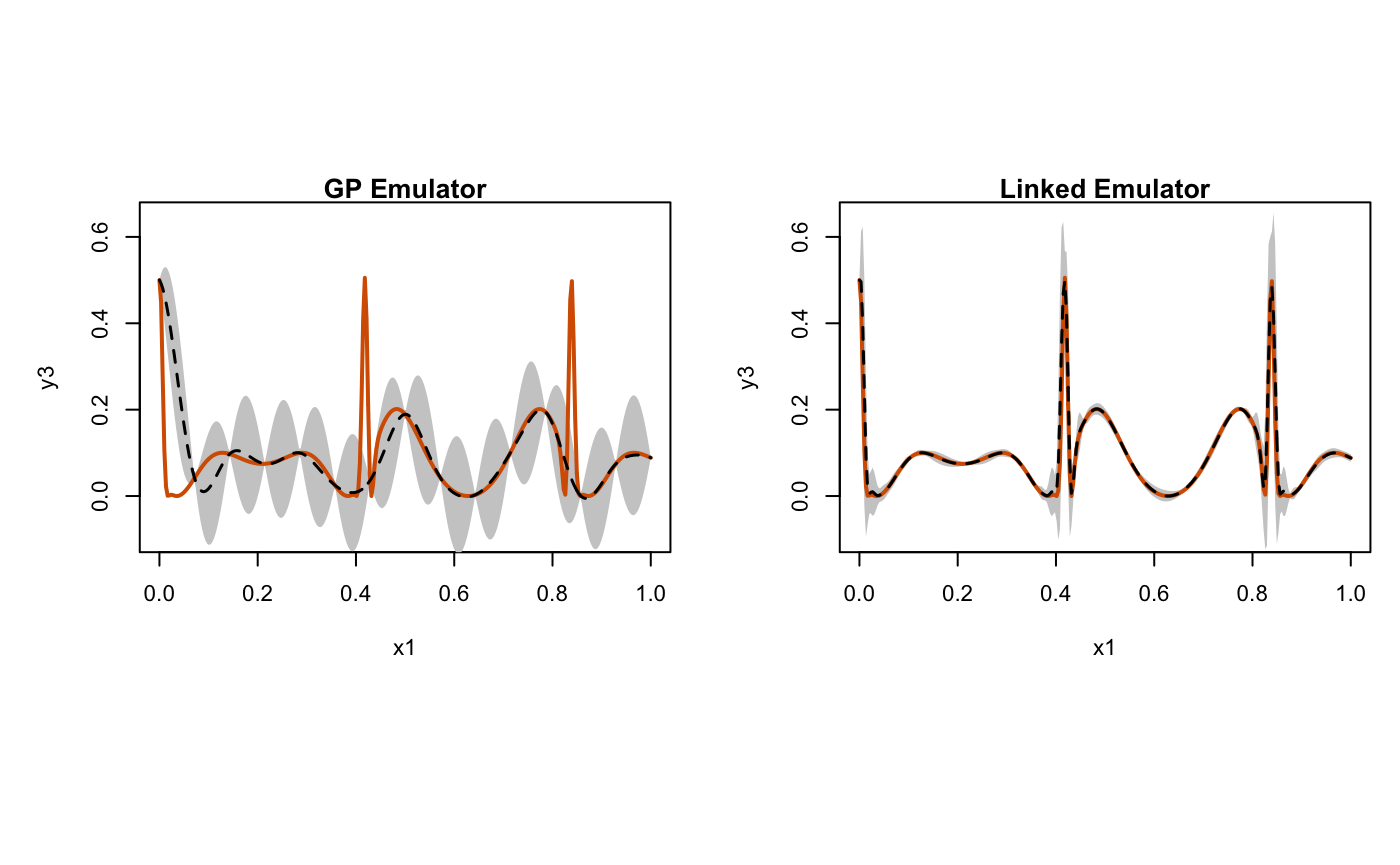
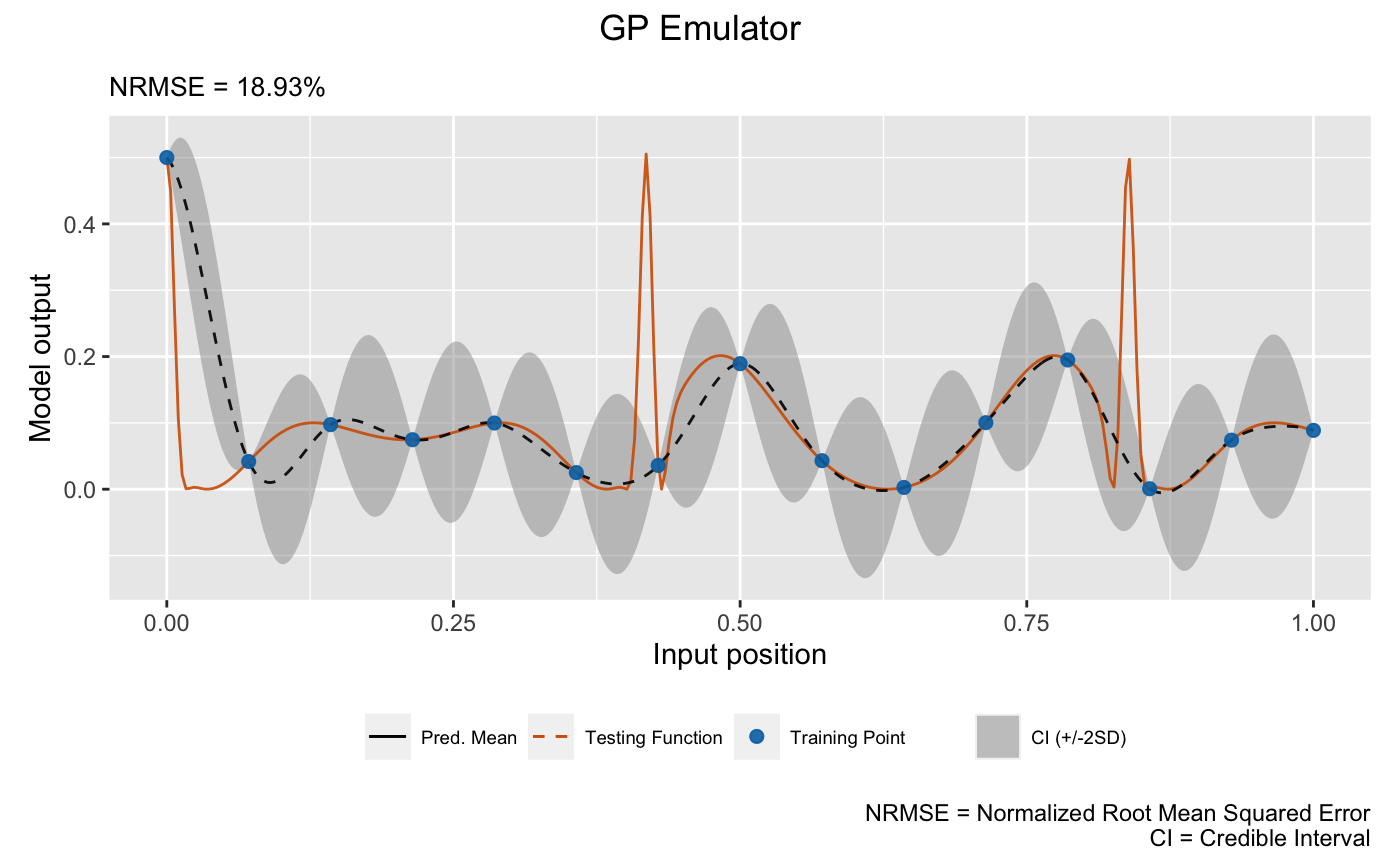
Update on plot()
Argument `type` is added to plot().

diff --git a/NEWS.md b/NEWS.md
@@ -3,6 +3,7 @@
 - Thanks to @yyimingucl, a bug from the underlying Python implementations for the MICE sequential design criterion `mice()` is fixed.
 - An argument `reset` is added to `update()` and `design()` to reset hyperparameters of a (D)GP emulator to their initial values (that were specified when the emulator is initialized) after the input and output of the emulator are updated and before the emulator is refitted. This argument can be useful for sequential designs in cases where the hyperparameters of a (D)GP emulator get caught in suboptimal estimates. In such circumstances, one can set `reset = TRUE` to reinitialize the (D)GP emulator in some steps of the sequential designs as a strategy to escape the poor estimates.
 - The refitting of an emulator in the final step of a sequential design is no longer forced in `design()`. 
+- An argument `type` is added to `plot()` to allow users to draw OOS validation plots with testing data shown as a line instead of individual points when the emulator's input is one-dimensional and `style = 1`.
 
 # dgpsi 2.2.0
 
